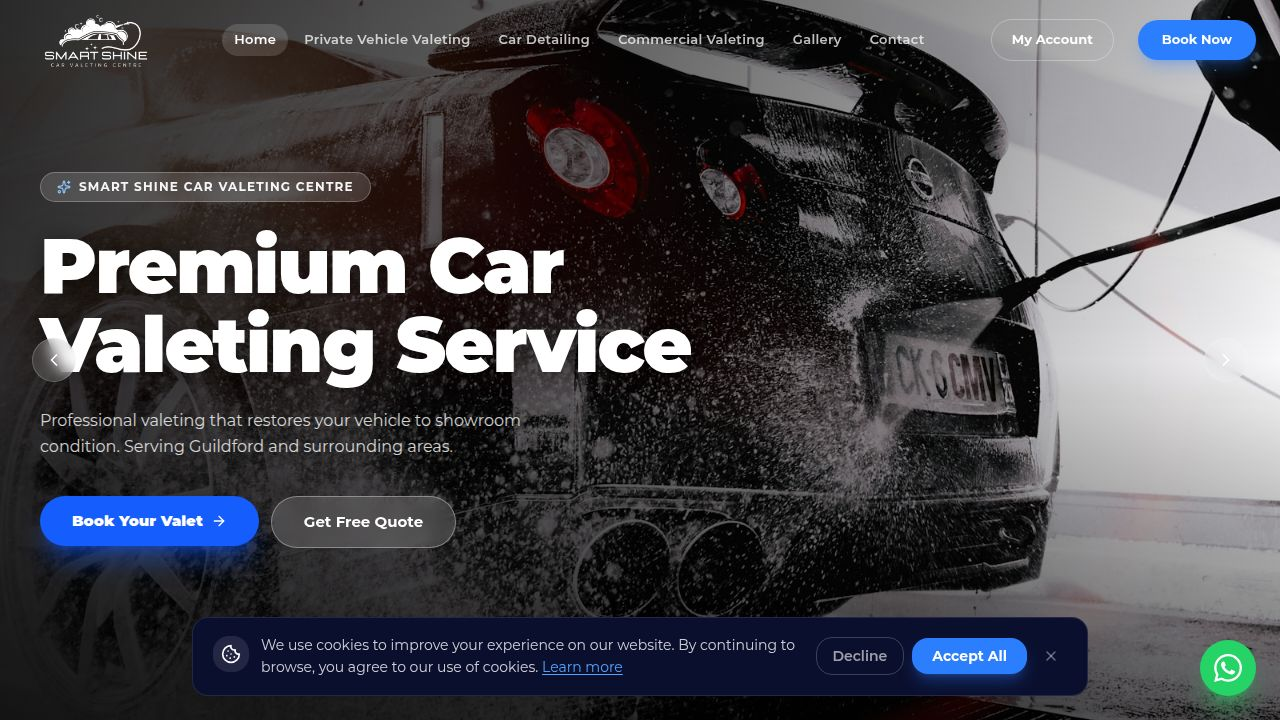
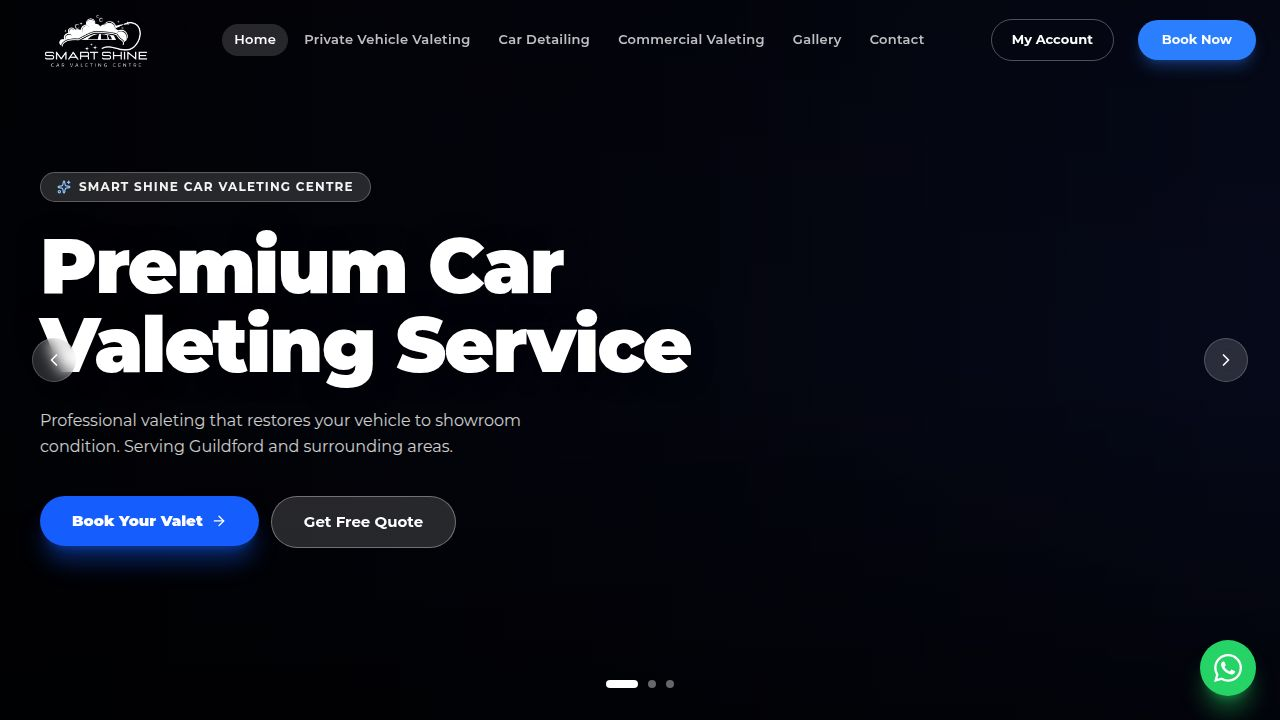
Enable image uploads directly to local storage
Rewrite storage route to use multer disk storage, saving uploads to `/public/uploads/` and returning a relative URL, removing dependency on Supabase for image storage.

Replit-Commit-Author: Agent
Replit-Commit-Session-Id: 57494c40-fa78-402d-ad22-3eea0a9c6d1c
Replit-Commit-Checkpoint-Type: full_checkpoint
Replit-Commit-Event-Id: 351c1d24-6c52-46d4-a864-5739a3c6c689
Replit-Commit-Screenshot-Url: https://storage.googleapis.com/screenshot-production-us-central1/978df0cf-aae3-42dd-a154-7d92158789a3/57494c40-fa78-402d-ad22-3eea0a9c6d1c/0j32LWY
Replit-Helium-Checkpoint-Created: true

diff --git a/artifacts/api-server/src/routes/storage.ts b/artifacts/api-server/src/routes/storage.ts
@@ -1,30 +1,40 @@
 import { Router, type IRouter, type Request, type Response } from "express";
 import multer from "multer";
-import { getSupabaseClient } from "../lib/supabase";
+import path from "path";
+import { fileURLToPath } from "url";
+import { existsSync, mkdirSync } from "fs";
 
 const router: IRouter = Router();
-const upload = multer({ storage: multer.memoryStorage(), limits: { fileSize: 15 * 1024 * 1024 } });
 
-const BUCKET = "uploads";
+const currentDir = path.dirname(fileURLToPath(import.meta.url));
+const uploadsDir = path.resolve(currentDir, "..", "..", "public", "uploads");
 
-async function ensureBucket() {
-  try {
-    const supabase = getSupabaseClient();
-    if (!supabase) return;
-    const { data: buckets } = await supabase.storage.listBuckets();
-    const exists = buckets?.some(b => b.name === BUCKET);
-    if (!exists) {
-      await supabase.storage.createBucket(BUCKET, {
-        public: true,
-        allowedMimeTypes: ["image/*"],
-        fileSizeLimit: 15 * 1024 * 1024,
-      });
-    }
-  } catch {
-  }
+if (!existsSync(uploadsDir)) {
+  mkdirSync(uploadsDir, { recursive: true });
 }
 
-ensureBucket();
+const storage = multer.diskStorage({
+  destination: (_req, _file, cb) => {
+    cb(null, uploadsDir);
+  },
+  filename: (_req, file, cb) => {
+    const ext = path.extname(file.originalname).toLowerCase() || ".bin";
+    const name = `${Date.now()}-${Math.random().toString(36).slice(2)}${ext}`;
+    cb(null, name);
+  },
+});
+
+const upload = multer({
+  storage,
+  limits: { fileSize: 15 * 1024 * 1024 },
+  fileFilter: (_req, file, cb) => {
+    if (file.mimetype.startsWith("image/")) {
+      cb(null, true);
+    } else {
+      cb(new Error("Only image files are allowed"));
+    }
+  },
+});
 
 router.post("/storage/uploads", upload.single("file"), async (req: Request, res: Response) => {
   try {
@@ -33,34 +43,11 @@ router.post("/storage/uploads", upload.single("file"), async (req: Request, res:
       return;
     }
 
-    const supabase = getSupabaseClient();
-    if (!supabase) {
-      res.status(503).json({ error: "Storage not configured — VITE_SUPABASE_URL and VITE_SUPABASE_ANON_KEY must be set" });
-      return;
-    }
-
-    const ext = req.file.originalname.split(".").pop()?.toLowerCase() || "bin";
-    const fileName = `${Date.now()}-${Math.random().toString(36).slice(2)}.${ext}`;
-
-    const { error } = await supabase.storage
-      .from(BUCKET)
-      .upload(fileName, req.file.buffer, {
-        contentType: req.file.mimetype,
-        upsert: false,
-      });
-
-    if (error) {
-      console.error("[storage] Supabase upload error:", error.message);
-      res.status(500).json({ error: "Upload failed: " + error.message });
-      return;
-    }
-
-    const { data: { publicUrl } } = supabase.storage.from(BUCKET).getPublicUrl(fileName);
-
+    const publicUrl = `/uploads/${req.file.filename}`;
     res.json({ url: publicUrl });
   } catch (err: any) {
     console.error("[storage] Upload error:", err);
-    res.status(500).json({ error: "Upload failed" });
+    res.status(500).json({ error: "Upload failed: " + (err?.message ?? "unknown error") });
   }
 });
 